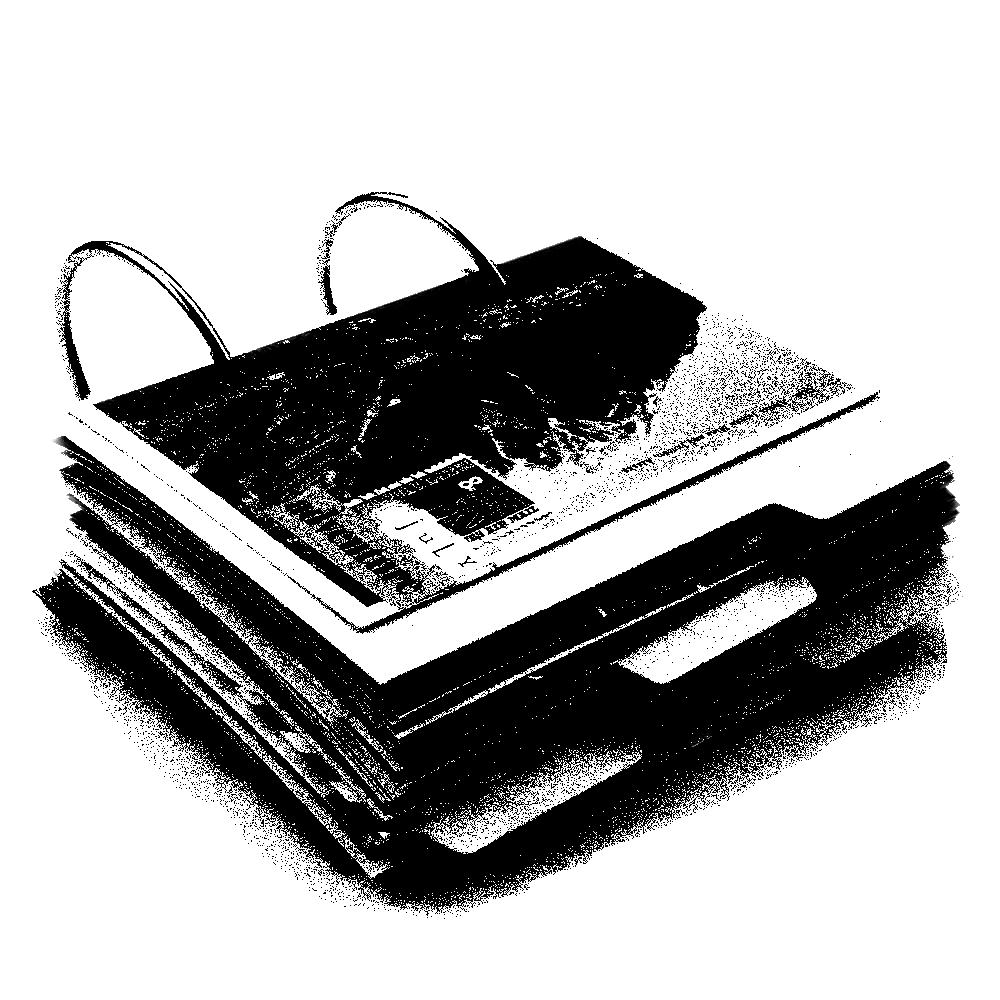
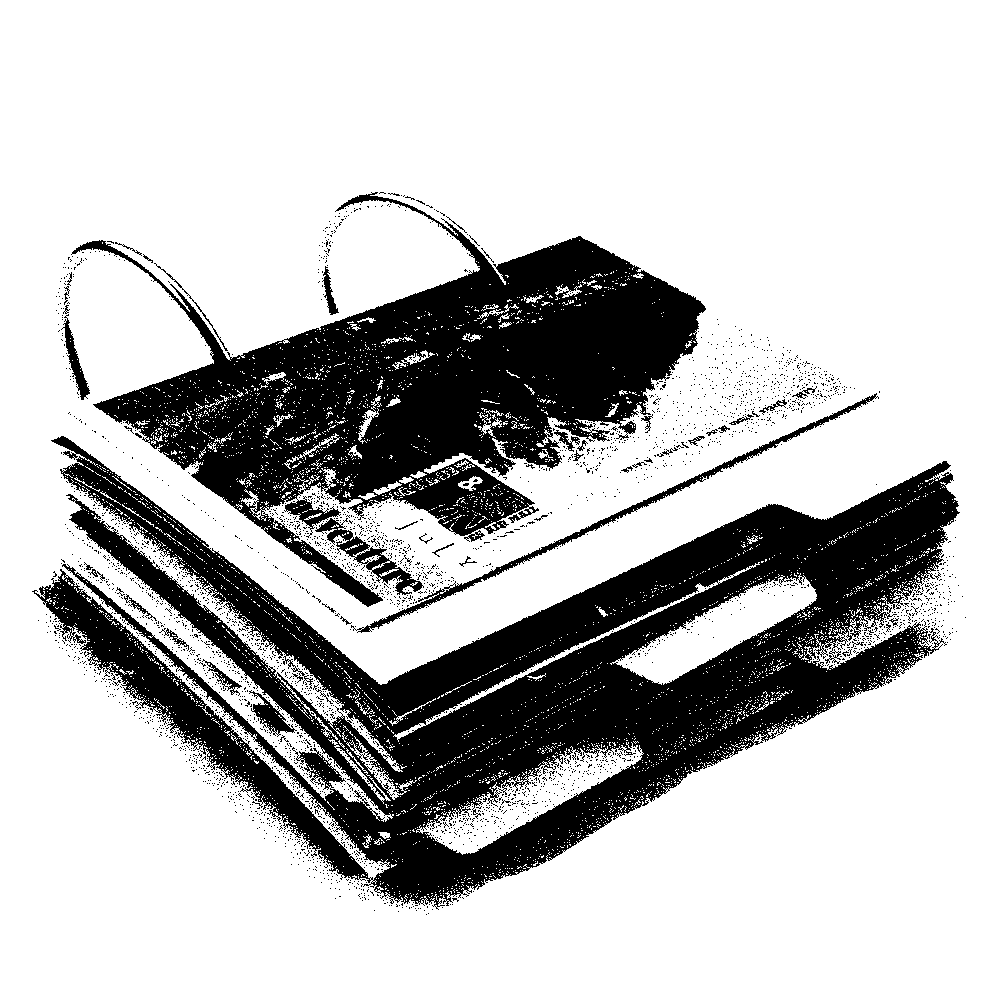
Add homepage pricing button and refresh hero imagery.
Introduces a third hero nav button that scrolls to the pricing section, updates the portfolio button graphic, and switches slider frames to solid white borders.

diff --git a/src/components/HomePageClient.tsx b/src/components/HomePageClient.tsx
@@ -330,6 +330,12 @@ function HeroSection({ h1Ref }: { h1Ref: RefObject<HTMLHeadingElement | null> })
           ariaLabel="Portfolio"
           minWidthClass="min-w-[22rem]"
         />
+        <HeroNavButton
+          href="#pricing"
+          label="Pricing"
+          imageSrc="/pricing-button.png"
+          ariaLabel="Pricing"
+        />
       </div>
 
       <div ref={belowButtonsGapRef} className="w-full shrink-0" aria-hidden />
@@ -451,7 +457,7 @@ function IncludedBulletList({ compact }: { compact?: boolean }) {
 
 function PricingSection() {
   return (
-    <section className="content-section page-last-section pt-0">
+    <section id="pricing" className="content-section page-last-section pt-0 scroll-mt-24">
       <h2 className="headline">pricing</h2>
 
       <div className="mb-16">

diff --git a/src/components/CoverflowSlider.tsx b/src/components/CoverflowSlider.tsx
@@ -23,9 +23,8 @@ interface CoverflowSliderProps {
     slides: Slide[];
 }
 
-/** Solid 8px frame — zinc-500 at 15% opacity; box-shadow avoids shrinking the image box. */
-const SLIDER_IMAGE_BORDER =
-    '0 0 0 8px color-mix(in oklab, var(--color-zinc-500) 15%, transparent)';
+/** Solid 8px frame — pure white; box-shadow avoids shrinking the image box. */
+const SLIDER_IMAGE_BORDER = '0 0 0 8px #fff';
 
 type BoxSize = {
     width: number;